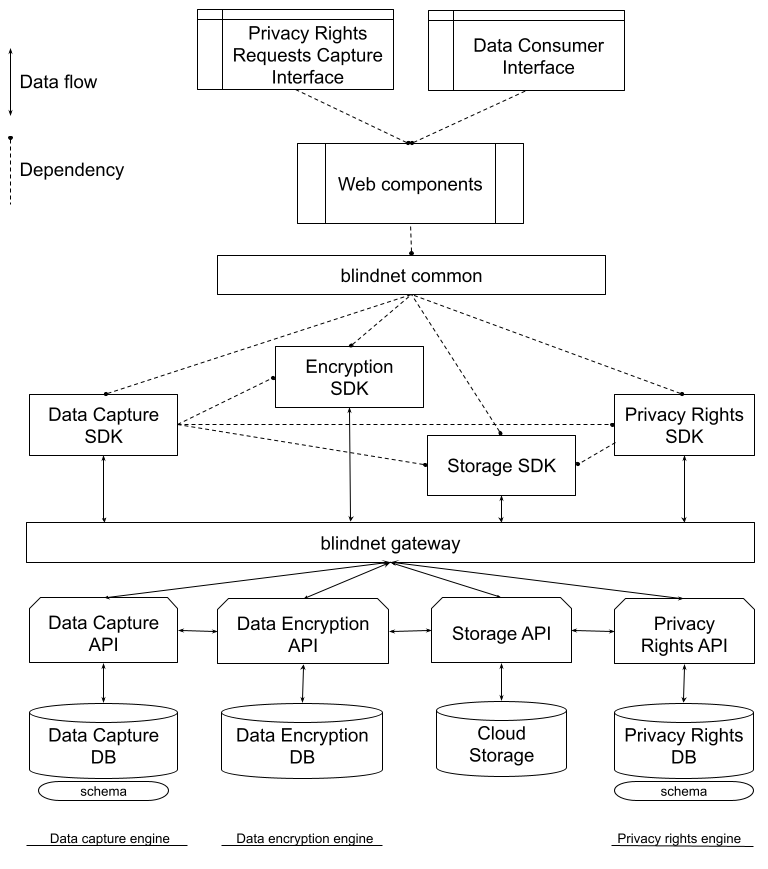
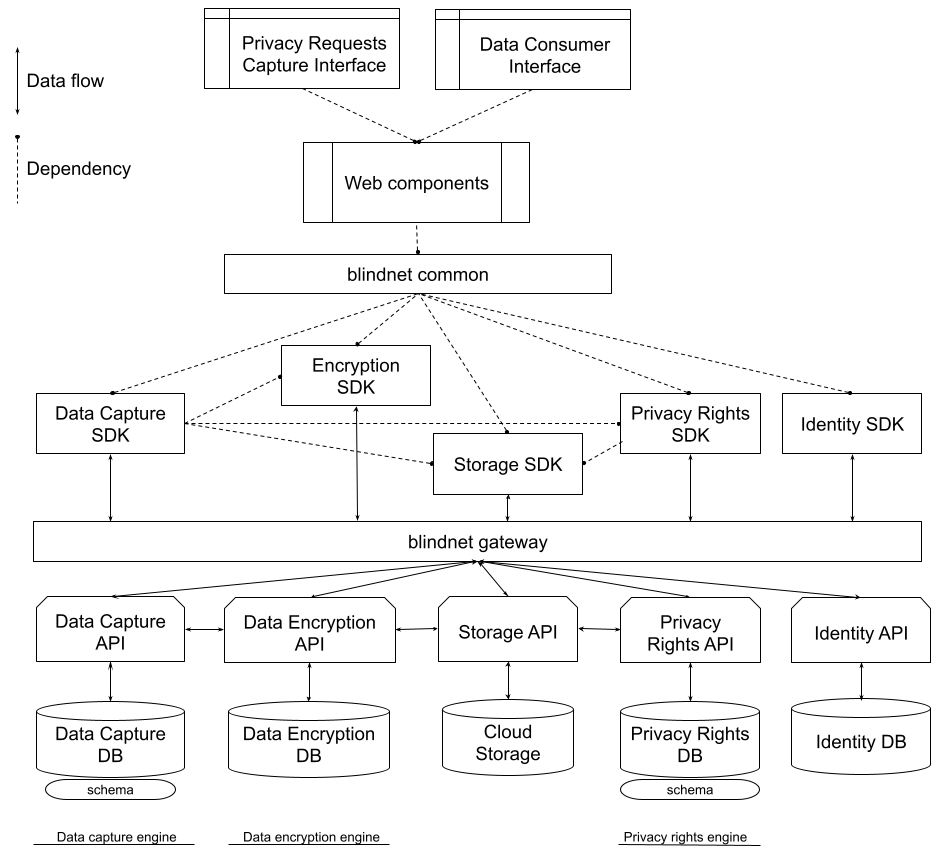
Add identity component to the architecture

diff --git a/specifications/architecture/README.md b/specifications/architecture/README.md
@@ -61,5 +61,7 @@ Privacy rights engine:
 
 Storage elements of the architecture are responsible for storing the data.
 
+Identity elements of the architecture are responsible for creating and managing users of the devkit (e.g., Data Subjects, Data Consumers, etc.).
+
 [HLA]: ../architecture/
 
